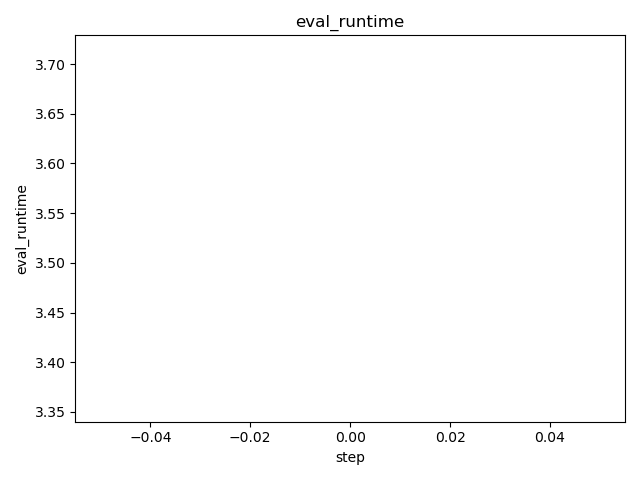
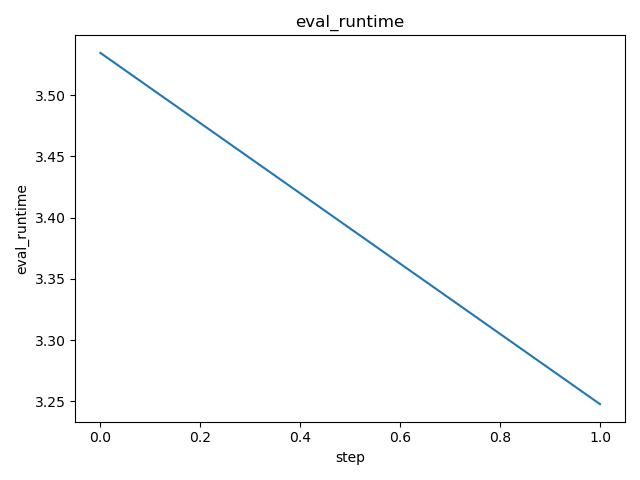
dvc: commit experiment 09528cd565617832fe52895d022bb8b70d8a805e9a86062c316362ecb9b5cb4e

diff --git a/data/ogt_protein_classifier/dvclive/report.md b/data/ogt_protein_classifier/dvclive/report.md
@@ -4,7 +4,7 @@ metrics.json
 
 |   loss |   learning_rate |   epoch |   eval_loss |   eval_f1 |   eval_accuracy |   eval_matthew |   eval_runtime |   eval_samples_per_second |   eval_steps_per_second |   step |
 |--------|-----------------|---------|-------------|-----------|-----------------|----------------|----------------|---------------------------|-------------------------|--------|
-|  0.685 |         4.8e-05 |       2 |    0.701644 |  0.666667 |             0.5 |              0 |         3.5345 |                    22.634 |                   0.566 |      0 |
+| 0.5348 |         4.6e-05 |       4 |    0.665852 |  0.714286 |             0.6 |       0.333333 |         3.2477 |                    24.633 |                   0.616 |      1 |
 
 ![static/eval_steps_per_second](static/eval_steps_per_second.png)
 
